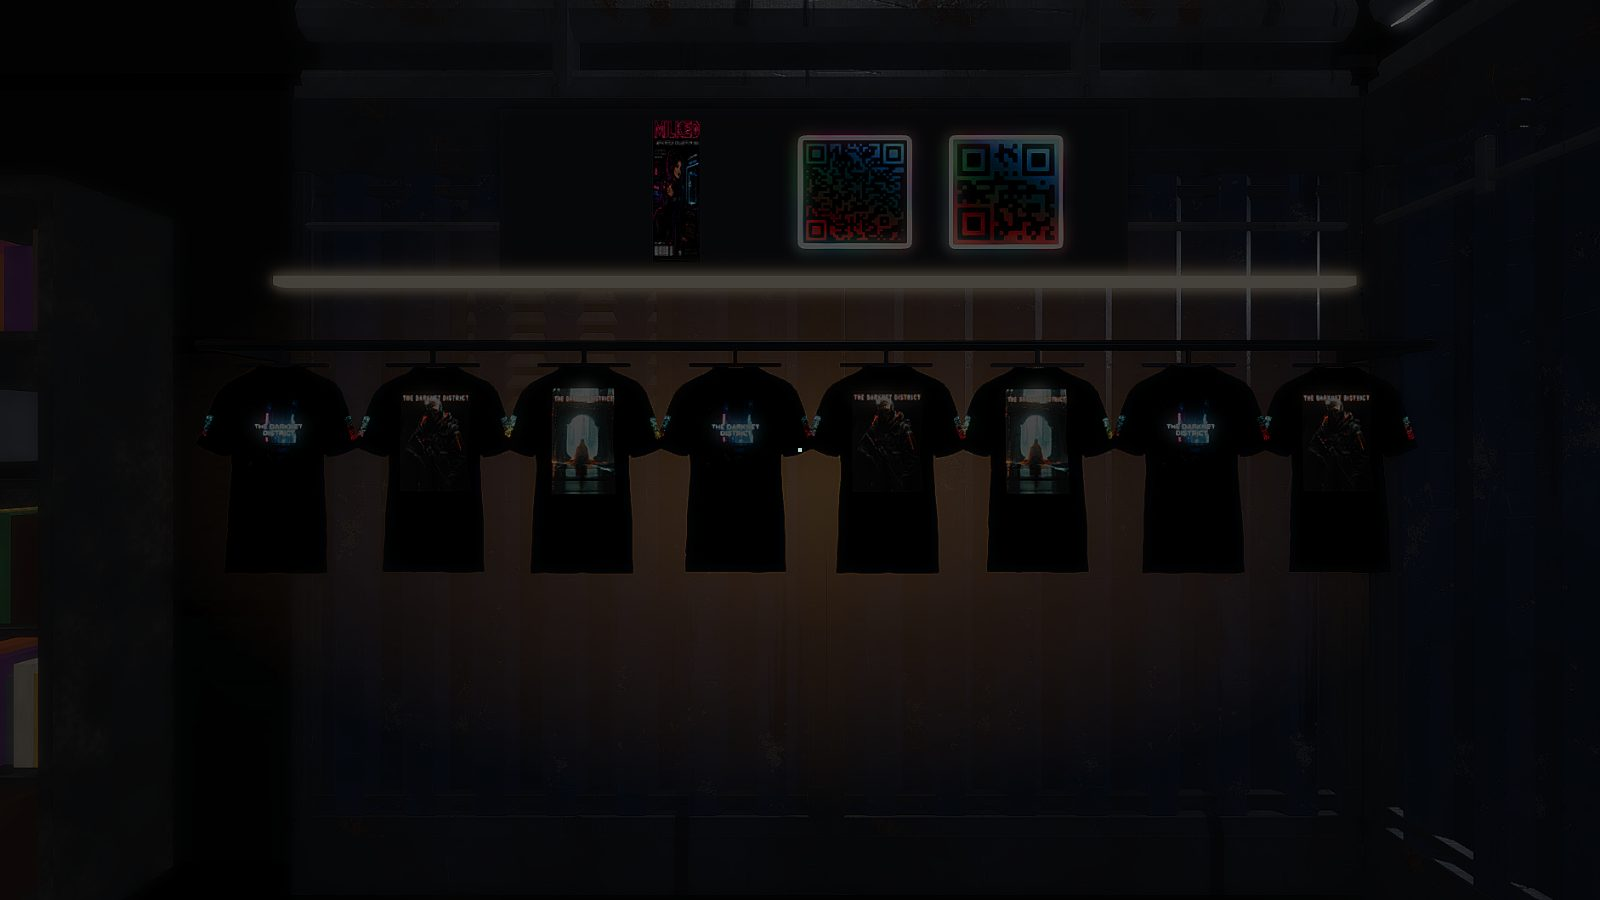
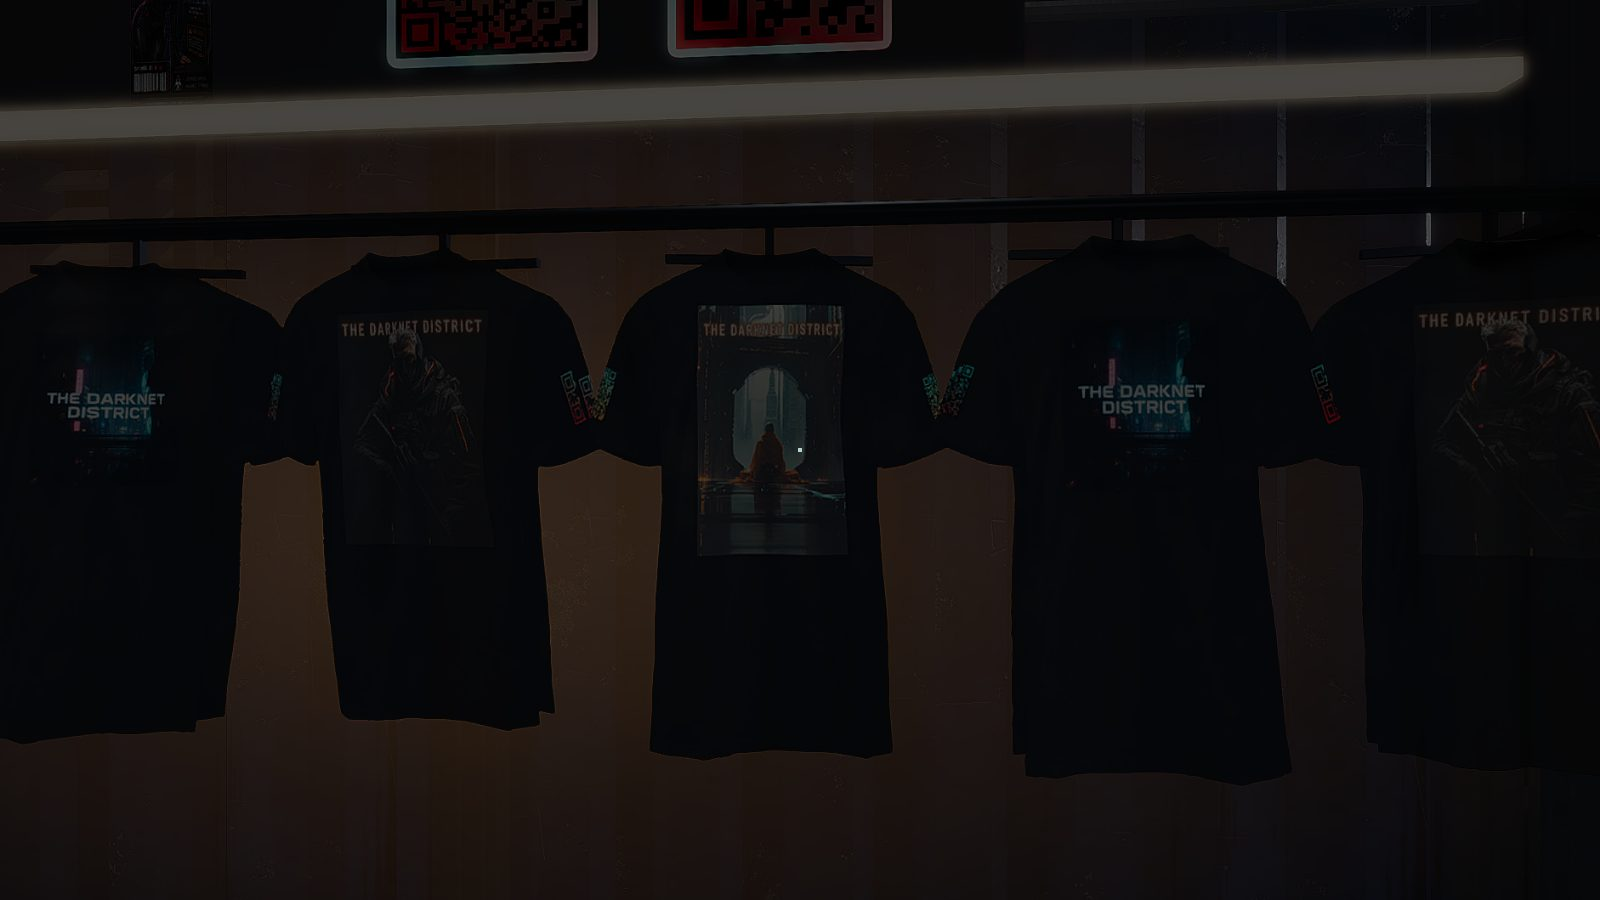
District shop: the shirts are 3D hanging garments
David: make the T-shirts 3D assets like they're hanging, not 2D pictures. A draped front and back with body,
folds and a turn on the hanger; the product picture wrapped on; folds shaded into vertex colours.

Claude-Session: https://claude.ai/code/session_013LW6cCPWiok2HMcoh6xN6q

diff --git a/void-runner/neochinatown.js b/void-runner/neochinatown.js
@@ -798,15 +798,27 @@
     for(let i=0;i<3;i++){const z=44.5+i*2.8;box('display-case',[1,2.4,2.2],[16.3,1.2,z],mat('case-glass','#8fd8ff',{rough:.05,metal:.1,alpha:.25}));box('case-light',[.05,2.2,.05],[15.78,1.2,z-1],[cyan,red,cyan][i]);for(let k=0;k<4;k++)box('display-item',[.6,.12,1.2],[16.3,.5+k*.5,z],[pipe,frame][k%2]);}
     // The goods of the website's store, in the shop (David, Nov 2026): store-apparel and store-survival, from the display sheets made by tools/assets/store/build_atlas.py.
     // One mesh per sheet: every picture is a card cut from the sheet. `face` is the way a card looks; cards never float: shirts hang from a rail, cards stand on the case shelves.
-    {const goods=(name,file,cols,rows,cut,cards)=>{const t=new B.Texture(new URL('assets/textures/store/'+file,base).href,scene);textures.push(t);const m=new B.StandardMaterial('ncz-'+name,scene);owned.push(m);m.diffuseColor=B.Color3.Black();m.specularColor=B.Color3.Black();m.emissiveTexture=t;t.level=cut?1.7:1.45;m.disableLighting=true;m.fogEnabled=false;m.backFaceCulling=false;if(cut){t.hasAlpha=true;m.diffuseTexture=t;m.useAlphaFromDiffuseTexture=true;m.transparencyMode=B.Material.MATERIAL_ALPHATEST;m.alphaCutOff=.5;}
+    {const noGlow=mesh=>{for(const l of scene.effectLayers||[])l.addExcludedMesh?.(mesh);};   // self-lit through a white emissive colour: the glow layer would see solid white and bloom the whole shape
+     const goods=(name,file,cols,rows,cut,cards)=>{const t=new B.Texture(new URL('assets/textures/store/'+file,base).href,scene);textures.push(t);const m=new B.StandardMaterial('ncz-'+name,scene);owned.push(m);m.diffuseColor=B.Color3.Black();m.specularColor=B.Color3.Black();m.disableLighting=true;m.fogEnabled=false;m.backFaceCulling=false;if(cut){t.hasAlpha=true;m.diffuseTexture=t;m.diffuseColor=B.Color3.White();m.emissiveColor=B.Color3.White();m.linkEmissiveWithDiffuse=true;m.useAlphaFromDiffuseTexture=true;m.transparencyMode=B.Material.MATERIAL_ALPHATEST;m.alphaCutOff=.5;}else{m.emissiveTexture=t;t.level=1.45;}
       const pos=[],uv=[],idx=[],nor=[];cards.forEach(([col,row,x,y,z,w,h,face,tilt=0],n)=>{const u0=col/cols+.004,u1=(col+1)/cols-.004,v1=1-row/rows-.004,v0=1-(row+1)/rows+.004,hw=w/2,hh=h/2;
        const c=face==='+z'?[[x+hw,z],[x-hw,z]]:face==='-z'?[[x-hw,z],[x+hw,z]]:face==='-x'?[[x,z+hw],[x,z-hw]]:[[x,z-hw],[x,z+hw]],lean=face==='+z'?[0,tilt]:face==='-z'?[0,-tilt]:face==='-x'?[-tilt,0]:[tilt,0];
        pos.push(c[0][0],y-hh,c[0][1], c[1][0],y-hh,c[1][1], c[1][0]-lean[0],y+hh,c[1][1]-lean[1], c[0][0]-lean[0],y+hh,c[0][1]-lean[1]);uv.push(u0,v0,u1,v0,u1,v1,u0,v1);const q=n*4;idx.push(q,q+1,q+2,q,q+2,q+3);for(let k=0;k<4;k++)nor.push(0,0,1);});
-      const mesh=new B.Mesh(name,scene),vd=new B.VertexData();vd.positions=pos;vd.uvs=uv;vd.indices=idx;vd.normals=nor;vd.applyToMesh(mesh);return add(mesh,m,[0,0,0],false);};
+      const mesh=new B.Mesh(name,scene),vd=new B.VertexData();vd.positions=pos;vd.uvs=uv;vd.indices=idx;vd.normals=nor;vd.applyToMesh(mesh);if(cut)noGlow(mesh);return add(mesh,m,[0,0,0],false);};
      const rail=mat('shop-rail','#15171b',{rough:.4,metal:.9}),board=mat('shop-board','#0d0e12',{rough:.8,metal:.2});
      // apparel: the three shirts on a rail along the north wall (each design more than once, as stock hangs), the two stickers and the rag on a board above
      {const z=43.78,tees=[[0,0],[0,1],[1,1]],cards=[];const bar=cyl('shop-apparel-rail',.018,4.0,[5.45,2.02,z],rail,true,8);bar.rotation.z=Math.PI/2;for(const x of [3.5,7.4])box('shop-apparel-bracket',[.04,.04,.36],[x,2.02,z-.17],rail);
-      for(let i=0;i<8;i++){const x=3.75+i*.49,[c,r]=tees[i%3];cards.push([c,r,x,1.62,z+(i%2?.03:0),.6,.68,'+z',.02]);box('shop-hanger',[.3,.012,.012],[x,1.955,z],rail);box('shop-hanger',[.012,.07,.012],[x,1.99,z],rail);}
+      // The shirts are real hanging garments, not pictures (David): a draped front and back with body, folds and a little swing on the hanger; the product picture is wrapped on (its
+      // cut-out trims the cloth to the shirt's outline) and the folds are shaded into vertex colours, since the shop has no lamp that reaches them.
+      {const pos=[],uv=[],idx=[],NX=14,NY=16,W=.6,Hh=.68;let q=31;const rnd=()=>(q=(q*1103515245+12345)&0x7fffffff)/0x7fffffff;
+       for(let i=0;i<8;i++){const x=3.75+i*.49,[c,r]=tees[i%3],yaw=(rnd()-.5)*.5,sway=(rnd()-.5)*.05,ph=rnd()*6,u0=c/3+.004,u1=(c+1)/3-.004,v1=1-r/2-.004,v0=1-(r+1)/2+.004;
+        box('shop-hanger',[.3,.012,.012],[x,1.955,z],rail).rotation.y=yaw;box('shop-hanger',[.012,.07,.012],[x,1.99,z],rail);
+        for(const side of [1,-1]){const start=pos.length/3;for(let j=0;j<=NY;j++)for(let k=0;k<=NX;k++){const u=k/NX,v=j/NY,a=2*u-1,belly=Math.sqrt(Math.max(0,1-a*a)),drop=1-v;
+           const fold=.014*Math.sin(u*17+ph+v*2.2)*(.35+.65*drop)+.008*Math.sin(u*31+ph*2)*drop,depth=(.012+.05*belly*(.55+.45*v))*(side>0?1:-.45)+(side>0?fold:-fold*.5)+sway*drop*drop*4*(side>0?1:1);
+           const lx=(.5-u)*W*(1-.04*drop*Math.sin(ph)),lz=depth;pos.push(x+lx*Math.cos(yaw)+lz*Math.sin(yaw),1.62-Hh/2+v*Hh,z+(i%2?.03:0)+lz*Math.cos(yaw)-lx*Math.sin(yaw));uv.push(u0+(u1-u0)*u,v0+(v1-v0)*v);}
+         for(let j=0;j<NY;j++)for(let k=0;k<NX;k++){const a=start+j*(NX+1)+k,b=a+1,cc=a+NX+1,d=cc+1;if(side>0)idx.push(a,b,d,a,d,cc);else idx.push(a,d,b,a,cc,d);}}}
+       const nor=[];B.VertexData.ComputeNormals(pos,idx,nor);const col=[];for(let n=0;n<nor.length;n+=3){const lit=Math.max(0,nor[n]*-.25+nor[n+1]*.45+Math.abs(nor[n+2])*.86),sh=Math.min(1,.42+.62*lit*lit);col.push(sh,sh*.97,sh*.93,1);}
+       const t=new B.Texture(new URL('assets/textures/store/store-apparel.png',base).href,scene);textures.push(t);t.hasAlpha=true;const m=new B.StandardMaterial('ncz-shop-shirts',scene);owned.push(m);m.diffuseTexture=t;m.diffuseColor=B.Color3.White();m.specularColor=B.Color3.Black();m.emissiveColor=B.Color3.White();m.linkEmissiveWithDiffuse=true;   /* self-lit: the colour is the picture times the folds' shading */m.disableLighting=true;m.fogEnabled=false;m.backFaceCulling=false;m.useAlphaFromDiffuseTexture=true;m.transparencyMode=B.Material.MATERIAL_ALPHATEST;m.alphaCutOff=.5;
+       const mesh=new B.Mesh('shop-shirts',scene),vd=new B.VertexData();vd.positions=pos;vd.uvs=uv;vd.indices=idx;vd.normals=nor;vd.colors=col;vd.applyToMesh(mesh);mesh.hasVertexAlpha=false;noGlow(mesh);add(mesh,m,[0,0,0],false);}
       box('shop-apparel-board',[2.3,.62,.03],[5.45,2.62,43.44],board);cards.push([1,0,4.75,2.62,43.47,.42,.42,'+z'],[2,0,5.3,2.62,43.47,.42,.42,'+z'],[2,1,5.95,2.62,43.47,.3,.52,'+z']);
       goods('shop-apparel','store-apparel.png',3,2,true,cards);
       box('shop-apparel-light',[3.7,.03,.05],[5.45,2.26,43.62],glowMat('shop-warm-tube','#ffd6a0',.9));if(!low){wallGlow('#ffb45e',5,2.4,[5.45,1.55,43.43],Math.PI,.42);lightPool('#ffb45e',4.6,2,[5.45,.036,44.5],.3);}}

diff --git a/docs/development/DISTRICT_INTERIOR.md b/docs/development/DISTRICT_INTERIOR.md
@@ -85,7 +85,7 @@ Still on the older look (to bring up to the standard, in this order): security v
 - **How to read the standard with the room references:** the hallway gives the quality; where David gave a room its own reference with coloured neon (arcade, VR booths, bar), that reference gives the room its colour.
 - **Colour balance (David: "make the coloured lighting a little more vibrant and neon, but value the dark areas, make the white light less washed out"):** the accents are purer and stronger (red `#ff1438`, teal `#00f0c8`, amber `#ff9412`, and a fourth, magenta `#ff1ea8`, on four stretches of wall); the white is pulled back (thinner, fainter shafts and cold pools, dimmer bluer ceiling panels and hallway lamps); the indoor fog is thinner and nearly black so shadows stay dark. Treat these values as part of the standard. Picture: `docs/development/hall-wall/colour-along.jpg`.
 - **Shop: the website store's goods (David: recreate the items on store-apparel and store-survival in the store; the electronics page was dropped):**
-  - Apparel: the three shirts hang on a rail along the north wall (eight hangers, each design repeated), with the two holographic stickers and the Milked rag on a board above and a warm tube over the rail.
+  - Apparel: the three shirts hang on a rail along the north wall (eight hangers, each design repeated) as **3D garments** (David: "3D assets like they're hanging and not just 2D pictures"): a draped front and back with body, folds and a turn on the hanger, built in `neochinatown.js` (`shop-shirts`); the product picture is wrapped on and its cut-out trims the cloth to the shirt's outline; the folds are shaded into vertex colours. The two holographic stickers and the Milked rag are flat things and stay flat, on a board above; a warm tube hangs over the rail. Self-lit meshes with a white emissive colour must be excluded from the glow layer (`noGlow`) or the whole shape blooms white.
   - Survival: all 47 products stand as lit display cards on the shelves of the three glass cases along the east wall.
-  - How: `tools/assets/store/build_atlas.py` makes two display sheets in `void-runner/assets/textures/store/` (`store-apparel.png`, cut-outs; `store-survival.jpg`, whole square cards; `store-atlas.json` lists the cells). In `neochinatown.js` `goods()` builds one mesh per sheet. They are pictures on cards, not 3D models of each product. No interaction: buying still happens on the website.
+  - How: `tools/assets/store/build_atlas.py` makes two display sheets in `void-runner/assets/textures/store/` (`store-apparel.png`, cut-outs; `store-survival.jpg`, whole square cards; `store-atlas.json` lists the cells). In `neochinatown.js` `goods()` builds one mesh per sheet. The survival goods are pictures on cards, not 3D models of each product. No interaction: buying still happens on the website.
   - Pictures: `docs/development/hall-wall/shop-goods-*.jpg`.
